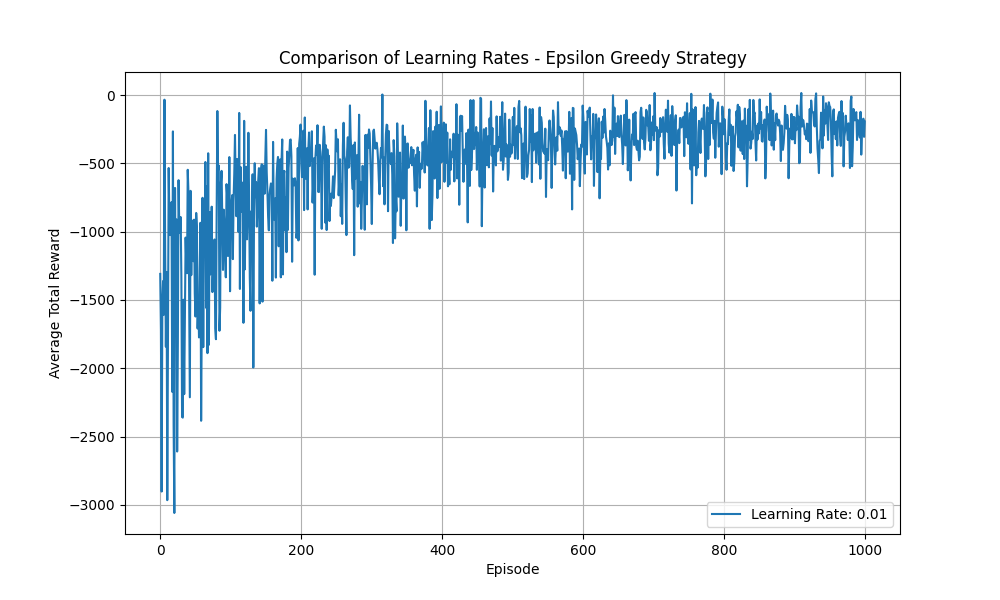
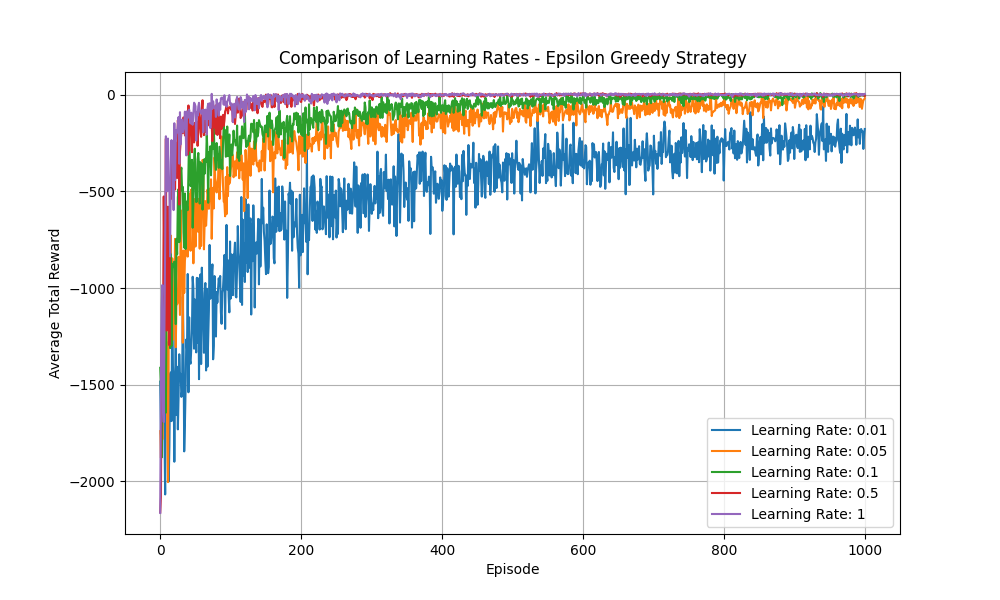
Tests done

diff --git a/main.py b/main.py
@@ -11,7 +11,6 @@ matplotlib.use("Agg")
 
 def test_learning_rates(episodes, trials, learning_rates, strategy):
     results = {lr: [] for lr in learning_rates}
-    env = GymEnvironment('Taxi-v3')
 
     environments = []
     for _ in range(trials):
@@ -40,7 +39,37 @@ def test_learning_rates(episodes, trials, learning_rates, strategy):
     plt.legend()
     plt.grid()
     plt.savefig(str(strategy).replace(" ", "_").lower() + '_learning_rate.png')
-    # plt.savefig('learning_rate.png')
+
+def test_strategies(episodes, trials, learning_rate, strategies):
+    results = {str(strategy): [] for strategy in strategies}
+    envs = []
+
+    for _ in range(trials):
+        env = GymEnvironment('Taxi-v3')
+        envs.append(env)
+
+    for strategy in strategies:
+        trial_rewards = []
+        for env in envs:
+            env_copy = copy.deepcopy(env)
+            agent_params = AgentParams(env_copy, learning_rate=learning_rate, discount_factor=0.99)
+            agent = QLearningAgent(agent_params)
+            rewards = agent.train(episodes, strategy)
+            trial_rewards.append(rewards)
+
+        avg_rewards = np.mean(trial_rewards, axis=0)
+        results[str(strategy)] = avg_rewards
+
+    plt.figure(figsize=(12, 8))
+    for strategy, rewards in results.items():
+        plt.plot(range(episodes), rewards, label=str(strategy))
+
+    plt.xlabel("Episode")
+    plt.ylabel("Average Total Reward")
+    plt.title(f"Comparison of Exploration Strategies (Learning Rate = {learning_rate})")
+    plt.legend()
+    plt.grid()
+    plt.savefig(f"strategies_comparison_lr_{learning_rate}.png")
 
 class GymEnvironment(Environment):
     def __init__(self, env_name):
@@ -57,12 +86,19 @@ class GymEnvironment(Environment):
         return int(next_state), int(reward), int(done)
 
 if __name__ == "__main__":
-    # env = GymEnvironment('Taxi-v3')
-    # agent_params = AgentParams(env, 0.1, 0.99)
-    # EPISODES = 1000
 
-    # agent = QLearningAgent(agent_params)
-    # result = agent.train(EPISODES, EpsilonGreedyStrategy(0.1))
 
-    # test_learning_rates(1000, 3, [0.01, 0.1, 0.2], EpsilonGreedyStrategy(0.1))
-    test_learning_rates(1000, 1, [0.01], EpsilonGreedyStrategy(0.1))
+    EPISODES = 1000
+    TRIALS = 5
+    LEARNING_RATE = 0.9
+    STRATEGIES = [
+        EpsilonGreedyStrategy(epsilon=0.1),
+        BoltzmannStrategy(temperature=1.0),
+        CountBasedStrategy(actions_num=6, states_num=500)
+    ]
+    LEARNING_RATES = [0.01, 0.05, 0.1, 0.5, 1]
+
+    test_learning_rates(EPISODES, TRIALS, LEARNING_RATES, STRATEGIES[0])
+    test_learning_rates(EPISODES, TRIALS, LEARNING_RATES, STRATEGIES[1])
+    test_learning_rates(EPISODES, TRIALS, LEARNING_RATES, STRATEGIES[2])
+    test_strategies(EPISODES, TRIALS, LEARNING_RATE, STRATEGIES)

diff --git a/QLearningAgent.py b/QLearningAgent.py
@@ -39,7 +39,7 @@ class BoltzmannStrategy(SelectStrategy):
     
 class CountBasedStrategy(SelectStrategy):
     def __init__(self, actions_num, states_num):
-        self.visit_count = np.zeros(states_num, actions_num)
+        self.visit_count = np.zeros((states_num, actions_num))
 
     def select(self, q_table, state, actions_num):
         exploration_bonus = 1 / (np.sqrt(self.visit_count[state] + 1))
@@ -72,7 +72,7 @@ class QLearningAgent:
         action = int(action)
         next_state = int(next_state)
         
-        max_q_next = np.max(self.q_table[next_state]) if not done else 0  # Jeśli epizod się skończy, max Q = 0
+        max_q_next = np.max(self.q_table[next_state]) if not done else 0
         self.q_table[state, action] = self.q_table[state, action] + \
                                       self.learning_rate * (reward + self.discount_factor * max_q_next - self.q_table[state, action])
         
